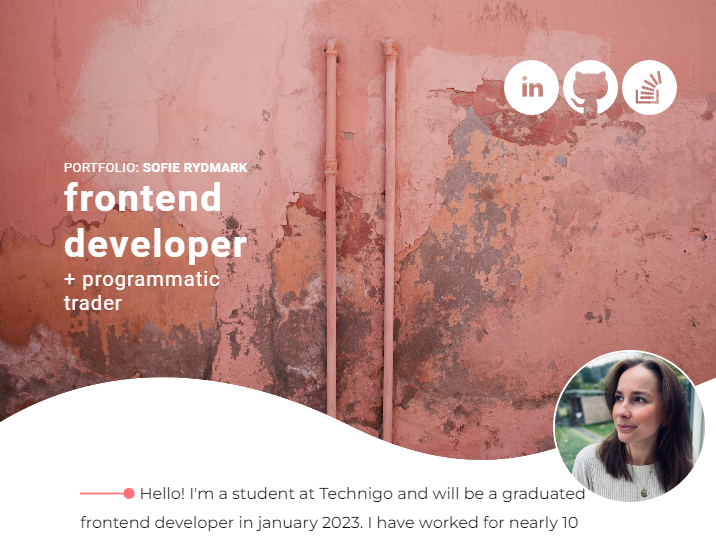
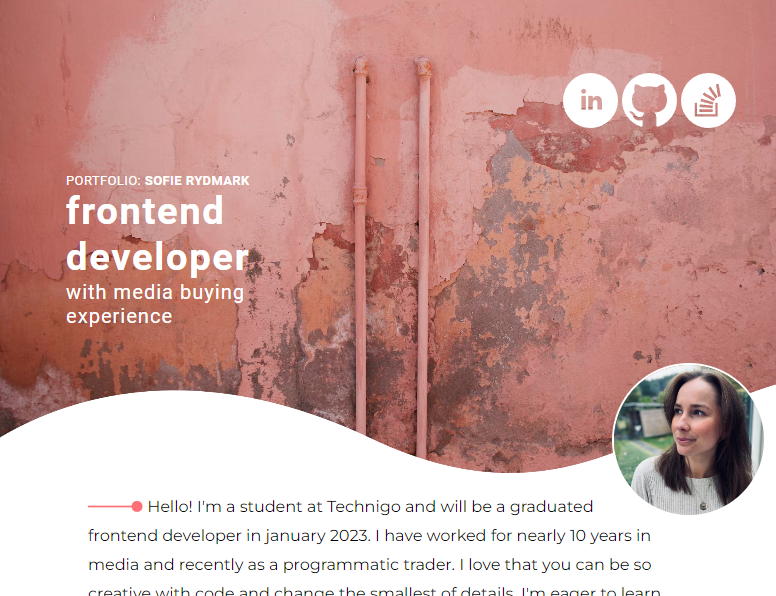
updates

diff --git a/code/index.html b/code/index.html
@@ -47,7 +47,7 @@
         <h1 class="header-text" >PORTFOLIO: 
             <span class="bold">SOFIE RYDMARK</span>
             <span class="title">frontend developer</span>
-            <span class="plus-title">+ programmatic trader</span>
+            <span class="plus-title">with media buying experience</span>
         </h1>
     </div>
 
@@ -85,10 +85,10 @@
                         <div class="overlay">
                             <div class="overlay-image"></div>
                             <img class="project-img" src="images/reactquiz.png" alt="brooklyn">
-                            <p class="overlay-text">REACT QUIZ BROOKLYN 99</p>
+                            <p class="overlay-text">REACT QUIZ</p>
                         </div>
-                            <h3 class="project-heads">QUIZ IN REACT</h3>
-                            <p class="project-info">A fun quiz built in React using state</p>
+                            <h3 class="project-heads">QUIZ BROOKLYN 99</h3>
+                            <p class="project-info">A fun quiz using hooks and state in React.</p>
                             <ol class="tag-container">
                                 <li class="tag">React</li>
                                 <li class="tag">React Hooks</li>
@@ -103,7 +103,7 @@
                         <div class="overlay">
                             <div class="overlay-image"></div>
                             <img class="project-img" src="images/musicreleases.PNG" alt="music-releases">
-                            <p class="overlay-text">REACT MUSIC RELEASES</p>
+                            <p class="overlay-text">MUSIC RELEASES</p>
                         </div>
                             <h3 class="project-heads">MUSIC RELEASES & PLAYLISTS</h3>
                             <p class="project-info">A music site built in React using APIs</p>

diff --git a/code/style.css b/code/style.css
@@ -341,8 +341,7 @@ a[href^=tel] {
  /** FOOTER **/
 
 footer {
-    background: rgb(164,147,147);
-    background: linear-gradient(353deg, rgba(164,147,147,1) 0%, rgba(103,71,71,1) 11%, rgba(129,77,77,1) 42%, rgba(136,78,78,1) 86%);
+    background: linear-gradient(353deg,rgb(146 54 54) 0%, rgb(177 78 78) 11%, rgb(166 84 80) 42%, rgb(136 78 78 / 89%) 86%);
     height: 280px;
 }
 
@@ -439,7 +438,7 @@ footer {
 
     .header-text-group {
         left: 200px;
-        top: 180px;
+        top: 130px;
     }
 
     .profile-pic {
